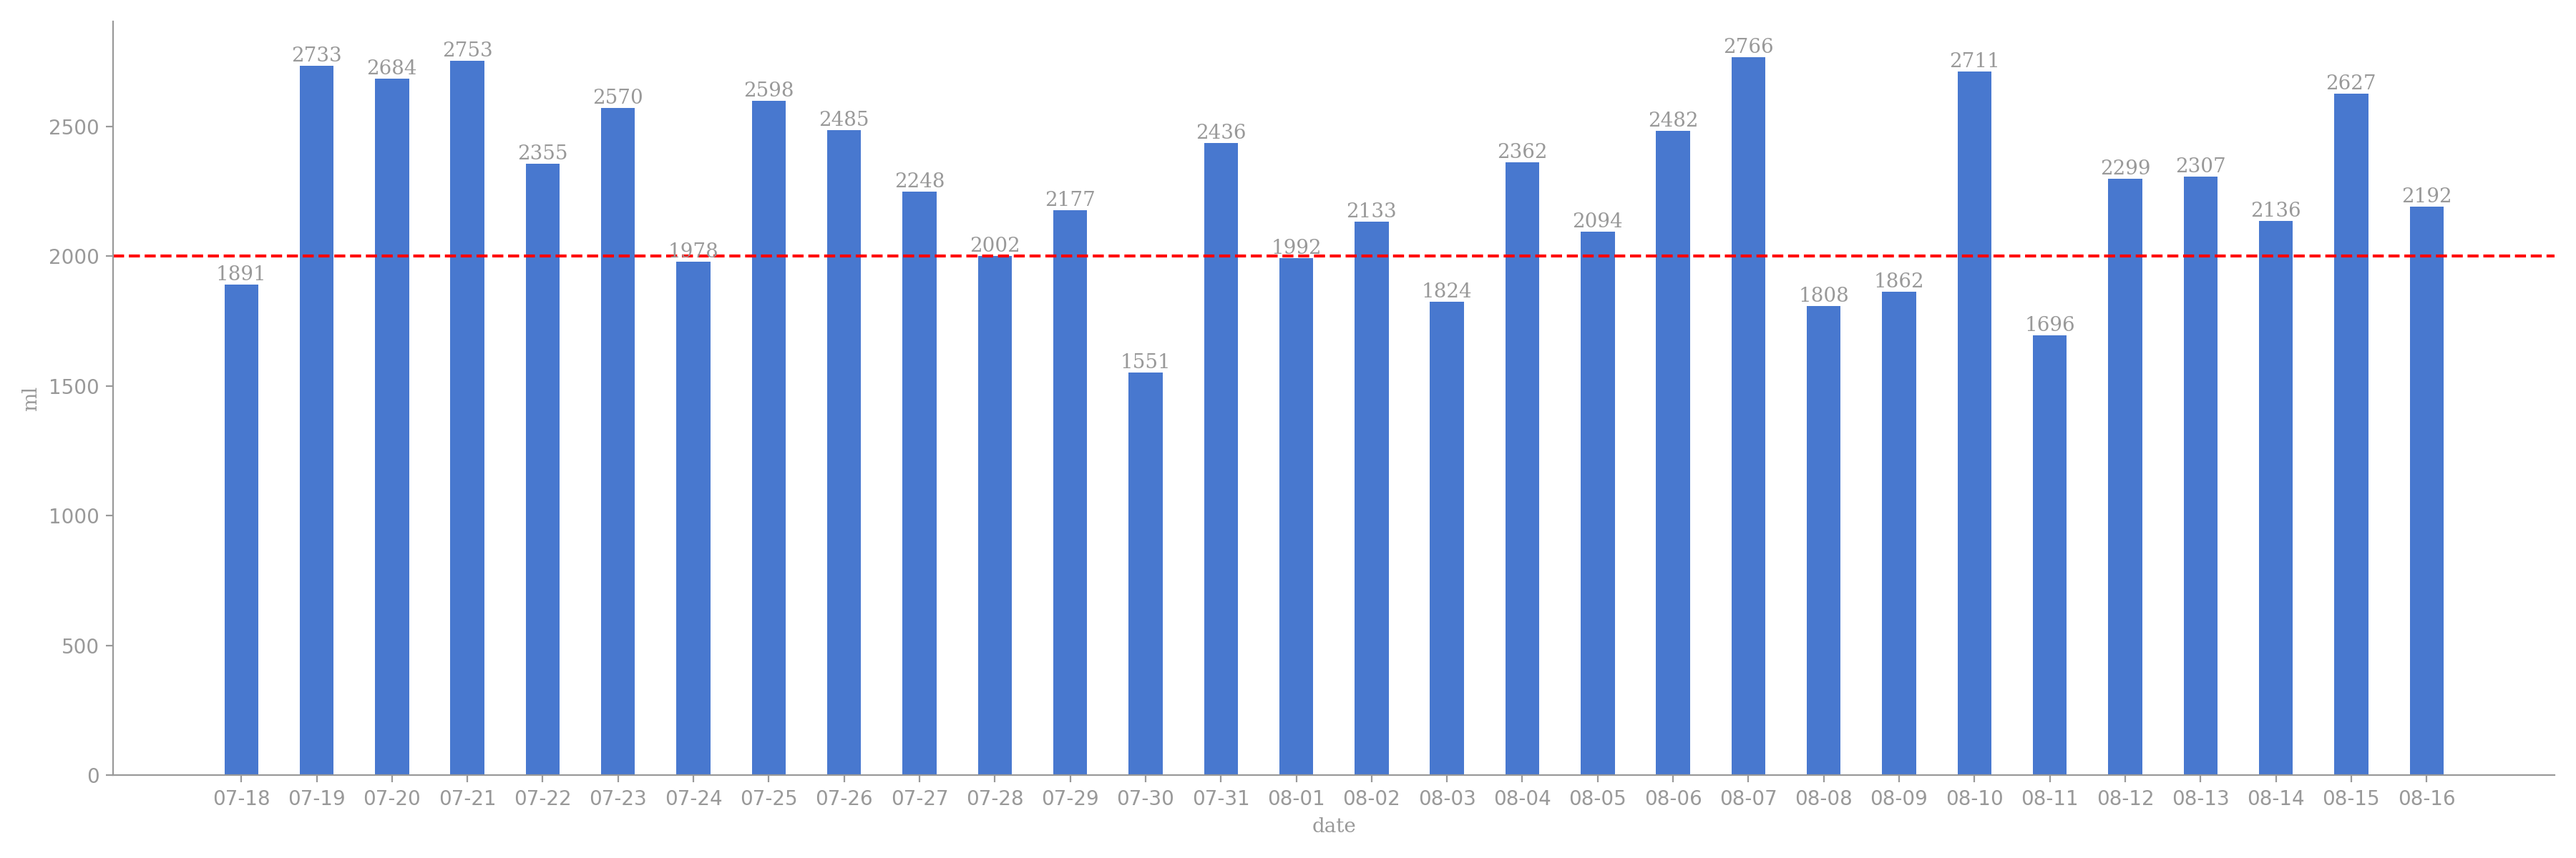
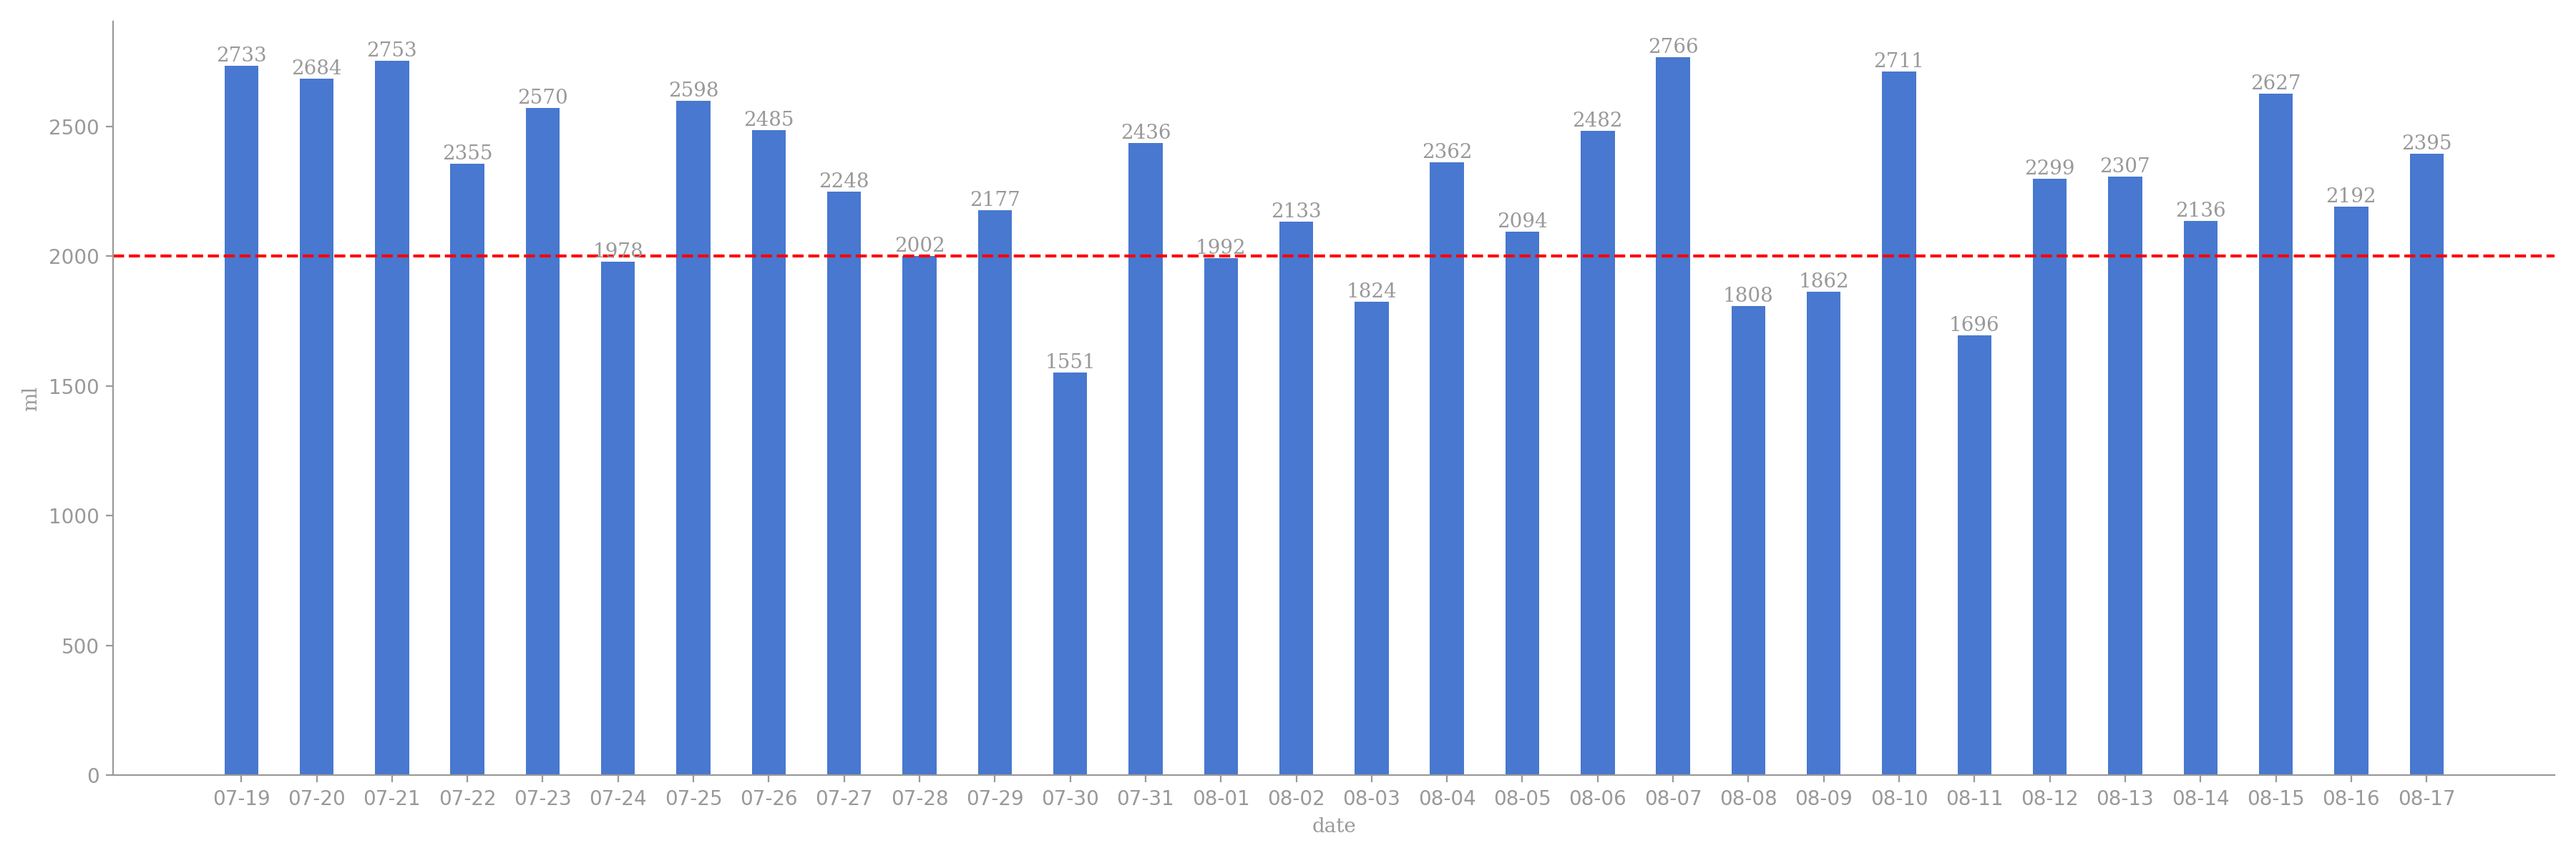
crontab auto git

Changed region(s): [[0.0622, 0.0308, 0.9644, 0.4317], [0.7156, 0.925, 0.7467, 0.9558]]

diff --git a/README.md b/README.md
@@ -1,17 +1,3 @@
-# 今日饮水数据
-
-<div align=center>
-<img src="today.png" style="zoom: 100%;" />
-
-| 今日总饮水量 | 每小时平均饮水量 |
-| :----: | :----: |
-| 2395 | 149 |
-</div>
-
-| 日期 | 00:13:20 | 00:34:43 | 00:54:48 | 01:07:05 | 02:05:18 | 02:06:52 | 03:12:12 | 09:20:55 | 12:26:13 | 14:04:38 | 14:16:33 | 14:35:33 | 15:14:16 | 16:43:10 | 16:58:37 | 16:59:37 | 17:22:52 | 17:47:32 | 18:22:28 | 19:12:00 | 19:25:10 | 19:54:00 | 20:35:35 | 21:38:15 | 22:01:10 | 22:52:02 | 23:12:19 |
-| :----: | :----: | :----: | :----: | :----: | :----: | :----: | :----: | :----: | :----: | :----: | :----: | :----: | :----: | :----: | :----: | :----: | :----: | :----: | :----: | :----: | :----: | :----: | :----: | :----: | :----: | :----: | :----: |
-| 2026-08-17 | 83 | 56 | 73 | 86 | 69 | 77 | 81 | 76 | 102 | 300 | 64 | 73 | 59 | 86 | 39 | 56 | 89 | 76 | 53 | 89 | 76 | 43 | 84 | 300 | 69 | 54 | 82 |
-
 # 近30日饮水数据
 
 <div align=center>
@@ -19,8 +5,12 @@
 
 | 总饮水量 | 日均饮水量 |
 | :----: | :----: |
-| 67752 | 2258 |
+| 68256 | 2275 |
 </div>
+
+| 日期 | all | 00:13:20 | 00:34:43 | 00:54:48 | 01:07:05 | 02:05:18 | 02:06:52 | 03:12:12 | 09:20:55 | 12:26:13 | 14:04:38 | 14:16:33 | 14:35:33 | 15:14:16 | 16:43:10 | 16:58:37 | 16:59:37 | 17:22:52 | 17:47:32 | 18:22:28 | 19:12:00 | 19:25:10 | 19:54:00 | 20:35:35 | 21:38:15 | 22:01:10 | 22:52:02 | 23:12:19 |
+| :----: | :----: | :----: | :----: | :----: | :----: | :----: | :----: | :----: | :----: | :----: | :----: | :----: | :----: | :----: | :----: | :----: | :----: | :----: | :----: | :----: | :----: | :----: | :----: | :----: | :----: | :----: | :----: | :----: |
+| 2026-08-17 | 2395 | 83 | 56 | 73 | 86 | 69 | 77 | 81 | 76 | 102 | 300 | 64 | 73 | 59 | 86 | 39 | 56 | 89 | 76 | 53 | 89 | 76 | 43 | 84 | 300 | 69 | 54 | 82 |
 
 | 日期 | all | 00:12:21 | 00:25:00 | 00:59:18 | 01:48:47 | 02:13:40 | 04:09:02 | 10:14:30 | 11:13:46 | 14:22:14 | 15:01:22 | 15:18:27 | 16:13:16 | 16:43:35 | 17:56:09 | 18:14:24 | 18:39:42 | 19:04:27 | 20:40:41 | 20:41:36 | 21:02:10 | 21:34:11 | 21:55:30 | 22:10:32 | 22:45:38 | 23:19:35 | 23:43:59 |
 | :----: | :----: | :----: | :----: | :----: | :----: | :----: | :----: | :----: | :----: | :----: | :----: | :----: | :----: | :----: | :----: | :----: | :----: | :----: | :----: | :----: | :----: | :----: | :----: | :----: | :----: | :----: | :----: |
@@ -141,8 +131,4 @@
 | 日期 | all | 00:30:26 | 01:31:23 | 02:20:18 | 02:55:58 | 10:05:31 | 10:25:28 | 12:49:36 | 14:18:22 | 14:18:41 | 15:40:59 | 15:44:57 | 16:34:30 | 16:36:31 | 19:36:43 | 22:11:55 | 22:55:10 | 23:32:47 | 23:49:13 |
 | :----: | :----: | :----: | :----: | :----: | :----: | :----: | :----: | :----: | :----: | :----: | :----: | :----: | :----: | :----: | :----: | :----: | :----: | :----: | :----: |
 | 2026-07-18 | 1891 | 66 | 91 | 66 | 10 | 66 | 57 | 68 | 87 | 217 | 52 | 86 | 30 | 80 | 76 | 600 | 89 | 69 | 81 |
-
-| 日期 | all | 00:12:01 | 00:32:54 | 01:08:34 | 02:17:42 | 02:19:09 | 03:19:48 | 12:26:53 | 13:43:04 | 14:35:10 | 16:39:43 | 17:04:51 | 17:32:35 | 17:54:15 | 18:09:23 | 19:12:42 | 19:28:31 | 20:21:53 | 21:24:36 | 22:05:04 | 22:50:21 | 23:51:01 |
-| :----: | :----: | :----: | :----: | :----: | :----: | :----: | :----: | :----: | :----: | :----: | :----: | :----: | :----: | :----: | :----: | :----: | :----: | :----: | :----: | :----: | :----: | :----: |
-| 2026-07-17 | 1869 | 102 | 79 | 66 | 61 | 86 | 91 | 86 | 189 | 79 | 68 | 86 | 50 | 63 | 86 | 86 | 36 | 96 | 200 | 89 | 102 | 68 |
 
